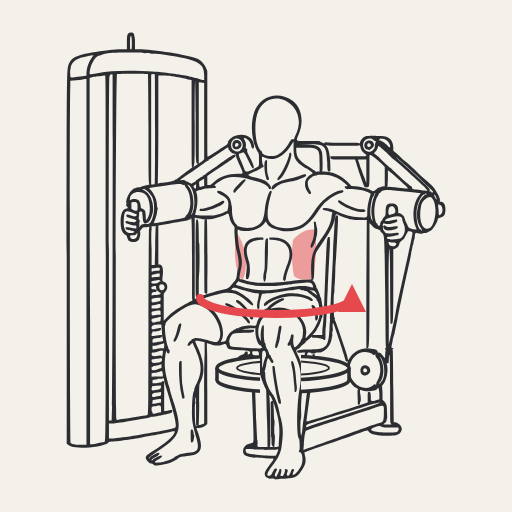
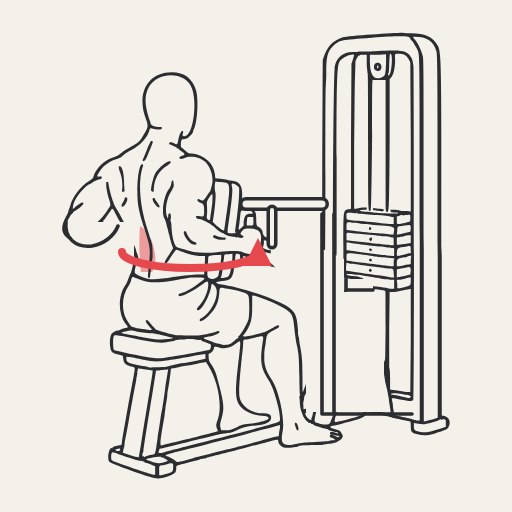
Redraw Machine Torso Rotation facing the machine's column
Seated facing the column, chest against the pad on an arm from the
column, hands on the handle under it, as on the machine at the gym.
Adapted from Open Exercise Art's machine row. The step for the grip
now says in front of the chest, as drawn.

Claude-Session: https://claude.ai/code/session_014dFGTNLBzhgBs2n8gTV9ov

Changed region(s): [[0.125, 0.0625, 0.875, 0.9375]]

diff --git a/Core/Sources/Core/ExtraExercises.swift b/Core/Sources/Core/ExtraExercises.swift
@@ -9,7 +9,7 @@ extension CatalogExercise {
             images: [],
             instructions: [
                 "Set the machine to start on one side, then sit down with your knees braced against the pads and your feet flat on the floor.",
-                "Rest your chest against the pad and grip the handles at shoulder height.",
+                "Rest your chest against the pad and grip the handles in front of your chest.",
                 "Brace your core and sit tall, your hips facing forward.",
                 "Rotate your upper body to the other side against the resistance, turning from the trunk rather than pulling with the arms.",
                 "Pause briefly, then return to the start with control.",
@@ -18,7 +18,7 @@ extension CatalogExercise {
             level: "beginner", category: "strength", germanName: "Rumpfdrehung am Gerät",
             germanInstructions: [
                 "Stelle die Maschine auf die Startposition einer Seite ein und setze dich, die Knie gegen die Polster und die Füße flach auf dem Boden.",
-                "Lege die Brust an das Polster und greife die Griffe auf Schulterhöhe.",
+                "Lege die Brust an das Polster und greife die Griffe vor der Brust.",
                 "Spanne den Rumpf an und sitze aufrecht, die Hüfte zeigt nach vorne.",
                 "Drehe den Oberkörper gegen den Widerstand zur anderen Seite; die Bewegung kommt aus dem Rumpf, nicht aus den Armen.",
                 "Halte kurz und kehre kontrolliert zur Startposition zurück.",

diff --git a/README.md b/README.md
@@ -125,4 +125,4 @@ Core tests: `cd Core && ./fetch-catalog.sh && swift test`. The exercise catalog 
 
 Exercise data by [RepDB](https://repdb.co) ([exercise-dataset](https://github.com/RepDB/exercise-dataset), free tier, used under its [data license](https://github.com/RepDB/exercise-dataset/blob/main/LICENSE-DATA.md)).
 
-The Machine Torso Rotation drawing (`Design/machine-torso-rotation.svg` and its PNG in `Core/Sources/Core/Extras/`) is adapted from "Machine Lateral Raise" by [Open Exercise Art](https://github.com/AlexMollard/Open-Exercise-Art) / Alex Mollard, [CC BY-SA 4.0](https://creativecommons.org/licenses/by-sa/4.0/): placed on a square background, ink colour set, a rotating seat base, the obliques in red and a rotation arrow added. The adaptation is licensed CC BY-SA 4.0 too.
+The Machine Torso Rotation drawing (`Design/machine-torso-rotation.svg` and its PNG in `Core/Sources/Core/Extras/`) is adapted from "Machine Row" by [Open Exercise Art](https://github.com/AlexMollard/Open-Exercise-Art) / Alex Mollard, [CC BY-SA 4.0](https://creativecommons.org/licenses/by-sa/4.0/): placed on a square background, ink colour set, the rowing lever replaced by an arm from the column to the chest pad, the near hand moved forward, the obliques in red and a rotation arrow added. The adaptation is licensed CC BY-SA 4.0 too.
